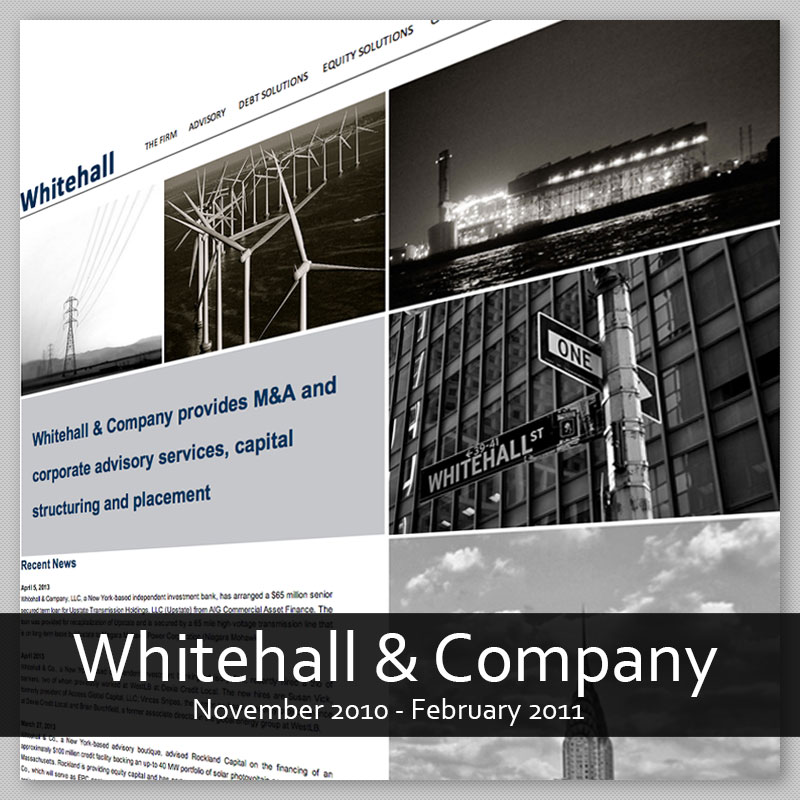
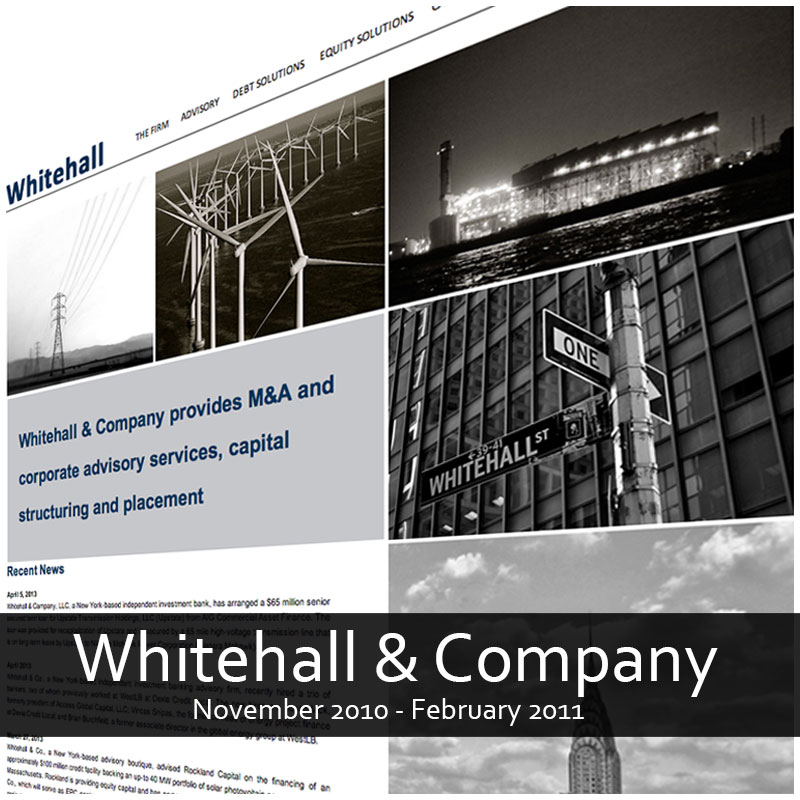
removed box shapeshifting...
…bad javascript, bad! if it won't play nice i'll live with an
unresponsible webiste for now

diff --git a/style.css b/style.css
@@ -150,22 +150,30 @@ h1.year {
     width: 46%;
 }
 /*css3 styles --------------------------------------------------------------------------- */
+@media screen and (max-width:9999999px){
+/*		  .box.uncloned { 
+			width: 24%;
+			padding-bottom: 24%;
+	  }*/
+}
+}
+
 @media screen and (max-width: 880px){
    #name .right {letter-spacing:.2em;}
    #name .left {letter-spacing:.3em;}
 }
 @media screen and (max-width: 1005px){
-	  .box { 
+/*	  .box.uncloned { 
 	  	width: 32% !important; 
 		padding-bottom: 32% !important;
-	  }
+	  }*/
 }
 @media screen and (max-width: 580px){
    #name {padding:1.5% 3%; letter-spacing:.4em;}
-      .box { 
+/*      .box.uncloned { 
 	  	width: 48% !important; 
 		padding-bottom: 48% !important;
-	  }
+	  }*/
 }
 
 @media screen and (min-width: 409px){
@@ -175,10 +183,10 @@ h1.year {
 
 @media screen and (max-width: 409px){
    #name {padding:1.5% 6%; width:28%; letter-spacing:.4em;}
-      .box { 
+/*      .box.uncloned { 
 	  	width: 97% !important; 
 		padding-bottom: 97% !important;
-	  }
+	  }*/
 }
 
 /*PLAX EFFECT --------------------------------------------------------------------------- */
@@ -227,9 +235,9 @@ img#plax-front {
 
 /*BOXES --------------------------------------------------------------------------- */
 .box{
-	width: 24%;
+	width: 23.6%;
+	padding-bottom: 23.6%;
 	height: 0;
-	padding-bottom: 24%;
 	margin: .4%;
 	float: left;
 	z-index: 1;
@@ -251,11 +259,11 @@ img#plax-front {
 }
 
 .uncloned {
-	background-attachment: scroll;
-	background-image: url(img/work/whitehall/sitepix/home.png);
-	background-repeat: no-repeat;
-	background-position: -250px -80px;
-	background-size: 750px;
+	background: #cacaca;
+}
+
+.uncloned .content{
+	visibility:hidden;
 }
 
 .content {
@@ -264,13 +272,10 @@ img#plax-front {
 	padding: 1%;
 }
 
-/*.box.one.uncloned {
-	background-attachment: scroll;
-	background-image: url(img/work/whitehall/sitepix/home.png);
+.box.one.uncloned {
+	background-image: url(img/boxes/whitehall.jpg);
 	background-repeat: no-repeat;
-	background-position: -250px -80px;
-	background-size: 750px;
-	border: 10px #eee solid;
+	background-size: 100%;
 }*/
 
 .box.uncloned .content {
